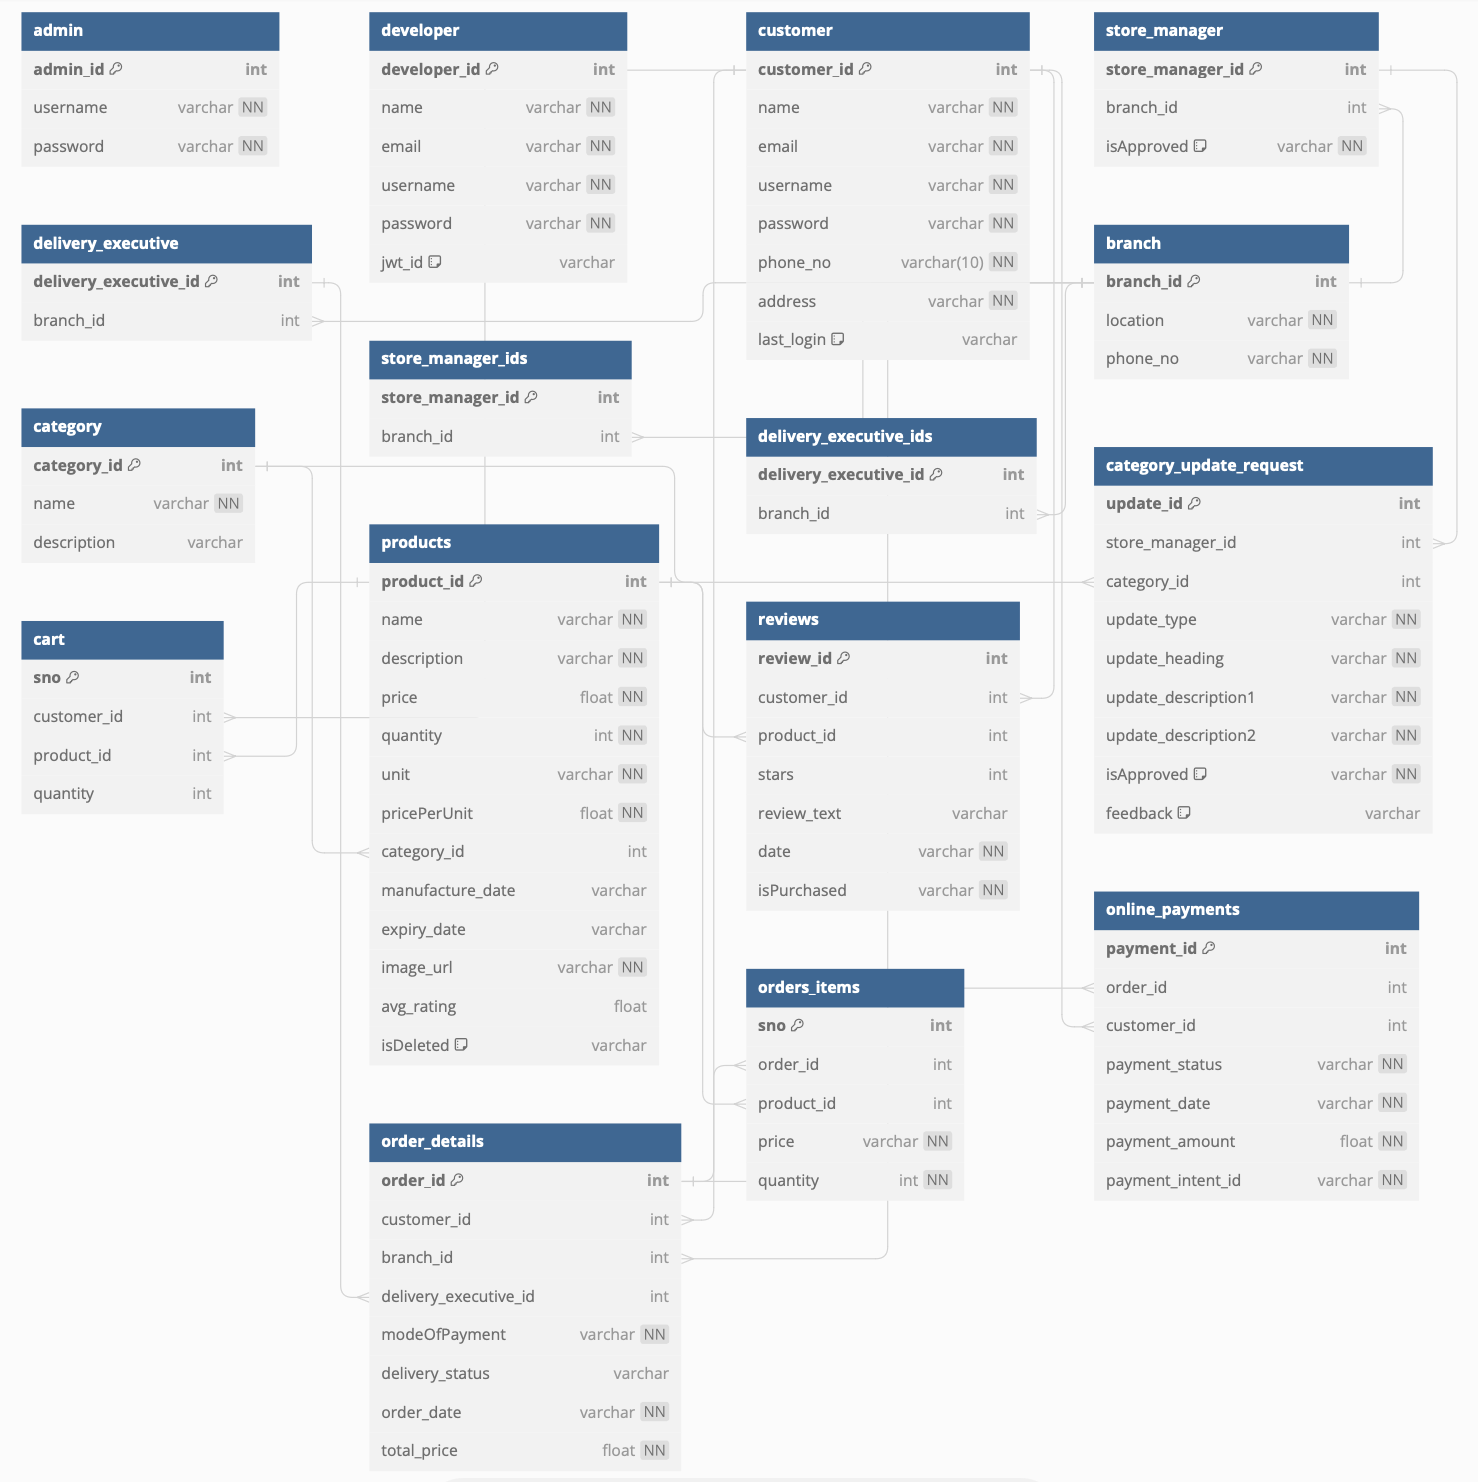
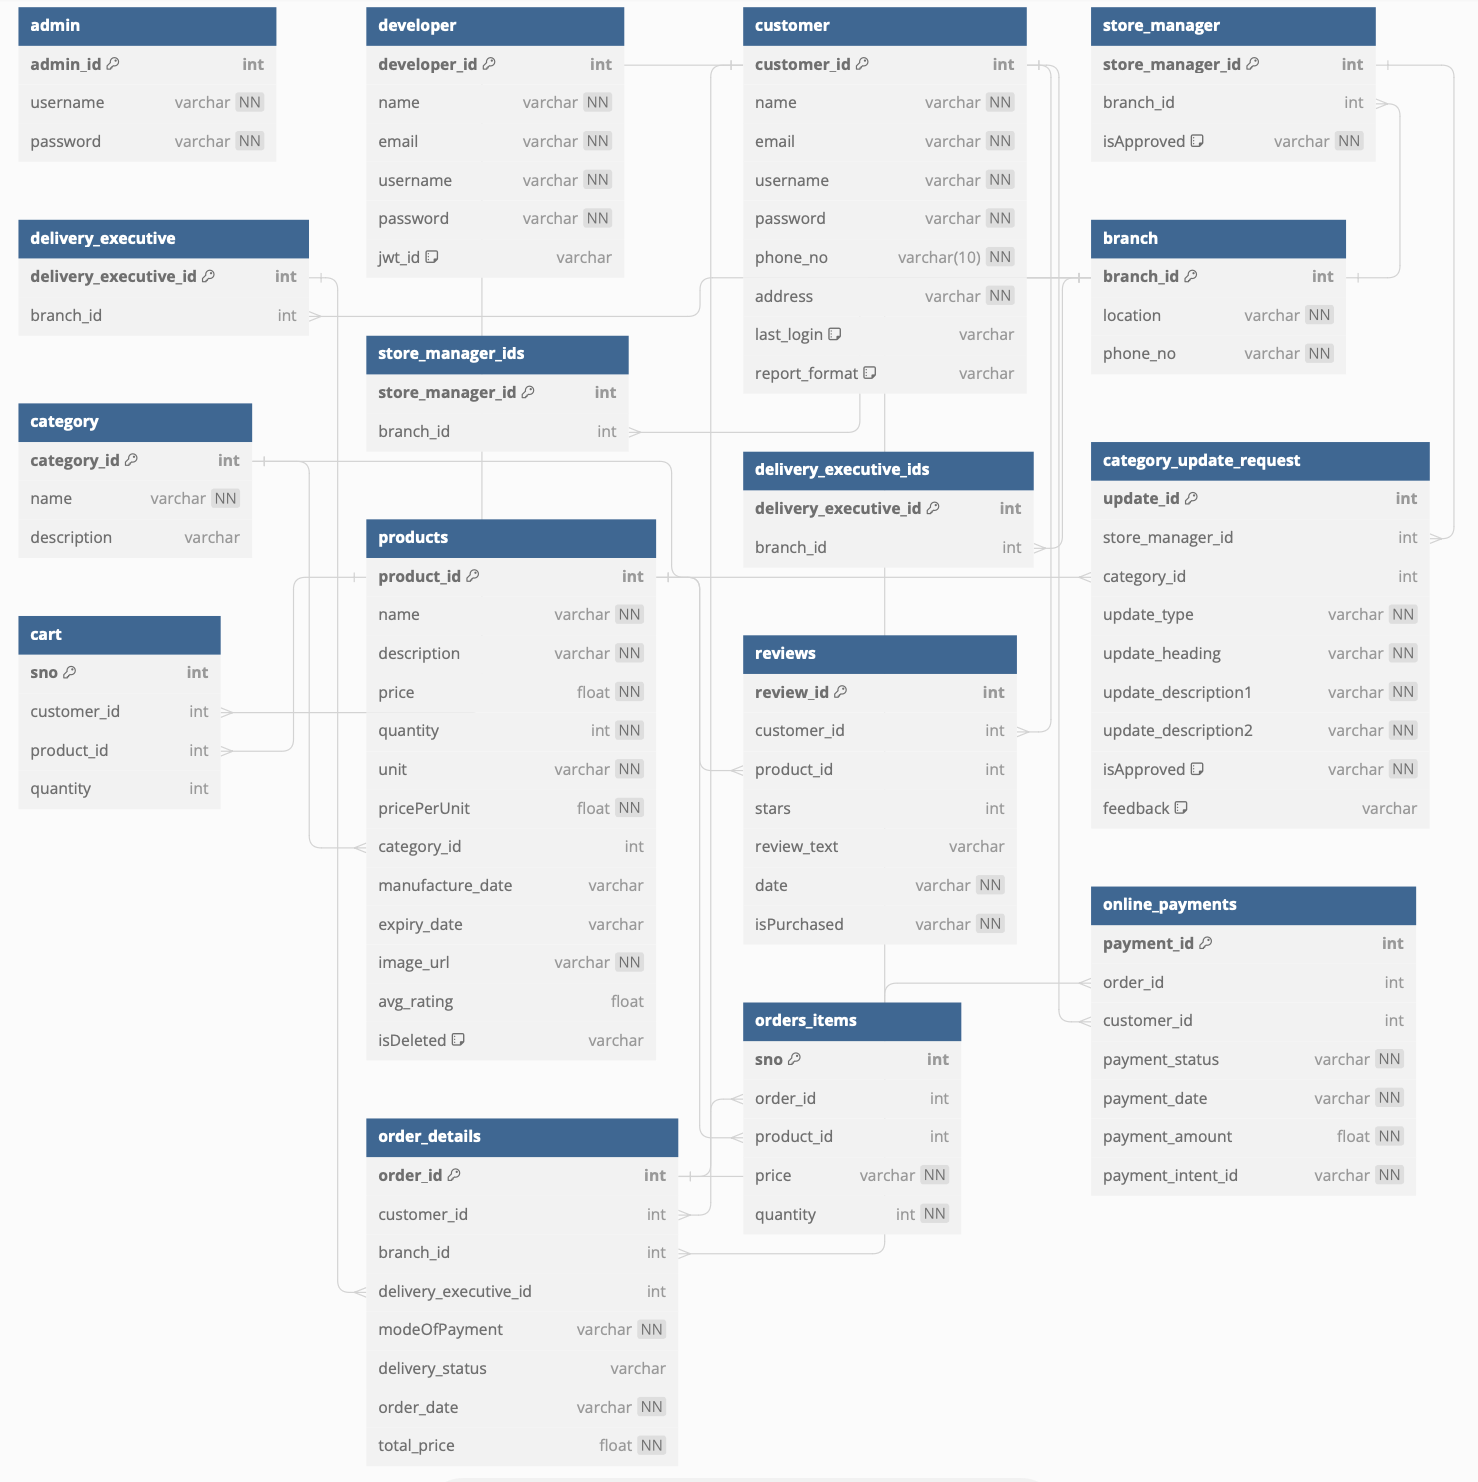
FEA : Can get monthly reports as PDFs now

diff --git a/templates/userviews/customer/monthly_report_format.html b/templates/userviews/customer/monthly_report_format.html
@@ -1,0 +1,23 @@
+<!DOCTYPE html>
+<html lang="en">
+    <head>
+        <meta charset="utf-8">
+        <title>Monthly report format</title>    
+    </head>
+    <body>
+        <div>
+            <h1>Monthly report format</h1>
+            <h3><a href="/customer/{{ c_id }}/dashboard">Back to dashboard</a></h3>
+            <h2>Current format : {{ curr_format }}</h2>
+            <h3>Formats : </h3>
+            <form method="POST" action="/customer/{{ c_id }}/monthly_report_format">
+                <input type="radio" name="format" value="html" required>
+                <label for="html">html : Get report as an email</label><br>
+                <input type="radio" name="format" value="pdf" required>
+                <label for="pdf">pdf : Get report as PDF via email</label>
+                <br><br>
+                <button type="submit">Update Format</button>
+            </form>
+        </div>
+    </body>
+</html>

diff --git a/templates/dashboard/dashboard_customer.html b/templates/dashboard/dashboard_customer.html
@@ -69,6 +69,7 @@
     <button onclick="window.location.href='/customer/{{ id }}/searchProducts'">Start shopping</button> <br><br>
     <button onclick="window.location.href='/customer/{{ id }}/cart'">Cart</button> <br><br>
     <button onclick="window.location.href='/customer/{{ id }}/past_orders'">Past Orders</button> <br><br>
+    <button onclick="window.location.href='/customer/{{ id }}/monthly_report_format'">Monthly Report Format</button> <br><br>
     <button onclick="window.location.href='/signout'">Sign-out</button> 
 {% endblock %}
 

diff --git a/application/tasks.py b/application/tasks.py
@@ -2,6 +2,7 @@ from flask_mail import Message
 from flask import render_template
 from db_directory.accessDB import GetDailyMailCustomers, GetMonthlyMailCustomers, GetMonthlyReport
 from datetime import datetime
+import pdfkit
 
 
 def get_previous_month():
@@ -27,13 +28,25 @@ def monthly_report(mail):
         def send_email_html(mail,to, subject, template, **kwargs):
             msg = Message(subject=subject, recipients=[to], html=render_template(template, **kwargs))
             mail.send(msg)
-        month= get_previous_month()
+
+        def send_email_pdf(mail,to, subject,body, template, **kwargs):
+            pdf = pdfkit.from_string(render_template(template, **kwargs), False)
+            msg = Message(subject=subject, recipients=[to], body=body)
+            msg.attach("monthly_report.pdf", "application/pdf", pdf)
+            mail.send(msg)
+
+
+        month= get_previous_month()+1
         customers = GetMonthlyMailCustomers(month)
         if customers:
             for customer in customers:
                 cid=customer["customer_id"]
                 orders, total_amount = GetMonthlyReport(cid,month)
-                send_email_html(mail,str(customer["email"]), 'Monthly Report', 'monthly_report.html', customer=customer, orders=orders, total_amount=total_amount)
+                format=customer["report_format"]
+                if format == 'pdf':
+                    send_email_pdf(mail=mail,to=str(customer["email"]),subject= 'Monthly Report',body="Please find the attached monthly report.", template='monthly_report.html', customer=customer, orders=orders, total_amount=total_amount)
+                else :
+                    send_email_html(mail,str(customer["email"]), 'Monthly Report', 'monthly_report.html', customer=customer, orders=orders, total_amount=total_amount)
             return "Monthly reports sent successfully."
         else:
             return 'No customers found to send monthly reports.'

diff --git a/application/views/viewsCustomer.py b/application/views/viewsCustomer.py
@@ -139,6 +139,22 @@ def check_user_features(name, phone):
         return True
 
 
+@viewsCustomer.route("/customer/<int:c_id>/monthly_report_format", methods=["GET","POST"])
+def monthly_report_format(c_id):
+    curr_format = Customer.query.get(c_id).report_format
+    if request.method == "POST":
+        format = request.form.get("format")
+        if format == "html":
+            Customer.query.get(c_id).report_format = "html"
+            db.session.commit()
+            return redirect(url_for("viewsCustomer.monthly_report_format", c_id=c_id))
+        elif format == "pdf":
+            Customer.query.get(c_id).report_format = "pdf"
+            db.session.commit()
+            return redirect(url_for("viewsCustomer.monthly_report_format", c_id=c_id))
+    return render_template("userviews/customer/monthly_report_format.html", c_id=c_id, curr_format=curr_format)
+
+
 @viewsCustomer.route("/customer/<int:c_id>/past_orders")
 def past_orders(c_id):
     return render_template(

diff --git a/db_directory/accessDB.py b/db_directory/accessDB.py
@@ -23,14 +23,11 @@ def GetDailyMailCustomers():
     return c
 
 def GetMonthlyMailCustomers(month):
-    """Returns a list of dictionary having customer details 
-    for customers who ordered in the given month."""
-        
     conn = sqlite3.connect('db_directory/gs.sqlite3')
     cursor = conn.cursor()
 
     query = f"""
-        SELECT od.customer_id, c.customer_id, c.name, c.email, c.username
+        SELECT od.customer_id, c.customer_id, c.name, c.email, c.username, c.report_format
         FROM order_details od
         JOIN Customer c ON od.customer_id = c.customer_id
         WHERE strftime('%m', od.order_date) = '{month:02}'
@@ -49,6 +46,7 @@ def GetMonthlyMailCustomers(month):
                 "name": row[2],
                 "email": row[3],
                 "username": row[4],
+                "report_format": row[5]
             }
             unique_customers.append(customer)
             customer_ids.add(row[0])

diff --git a/application/models.py b/application/models.py
@@ -41,6 +41,13 @@ class Customer(User):
     customer_id = db.Column(db.Integer, autoincrement=True, primary_key=True)
     address = db.Column(db.String, nullable=False)
     last_login = db.Column(db.String, default=None)
+    report_format = db.Column(db.String, default="html")
+
+    __table_args__ = (
+        CheckConstraint(
+            report_format.in_(["html", "pdf"]), name="valid_report_format"
+        ),
+    )
 
     def get_id(self):
         return str(self.customer_id)

diff --git a/application/config.py b/application/config.py
@@ -71,7 +71,7 @@ class LocalDevelopmentConfig(Config):
         },
         'send-monthly-report': {
             'task': 'main.send_monthly_report',
-            'schedule': crontab(day_of_month=1, hour=6, minute=30),
+            'schedule': crontab(day_of_month=1, hour=8, minute=30),
         },
     }
     CELERY_MAX_INTERVAL = 120

diff --git a/README.md b/README.md
@@ -33,6 +33,7 @@ It's a multi-user e-commerce app to manage a grocery store, made using Flask fra
 7. Can give ratings and reviews to products
 8. Can make online payments and receive OTPs for confirmation of delivery
 9. Receives daily email reminders and monthly reports
+10. Can choose whether to receive pdf or text monthly reports via email
 
 ### Admin :
 1. Can view all the store managers' requests for sign up and approve/reject them
